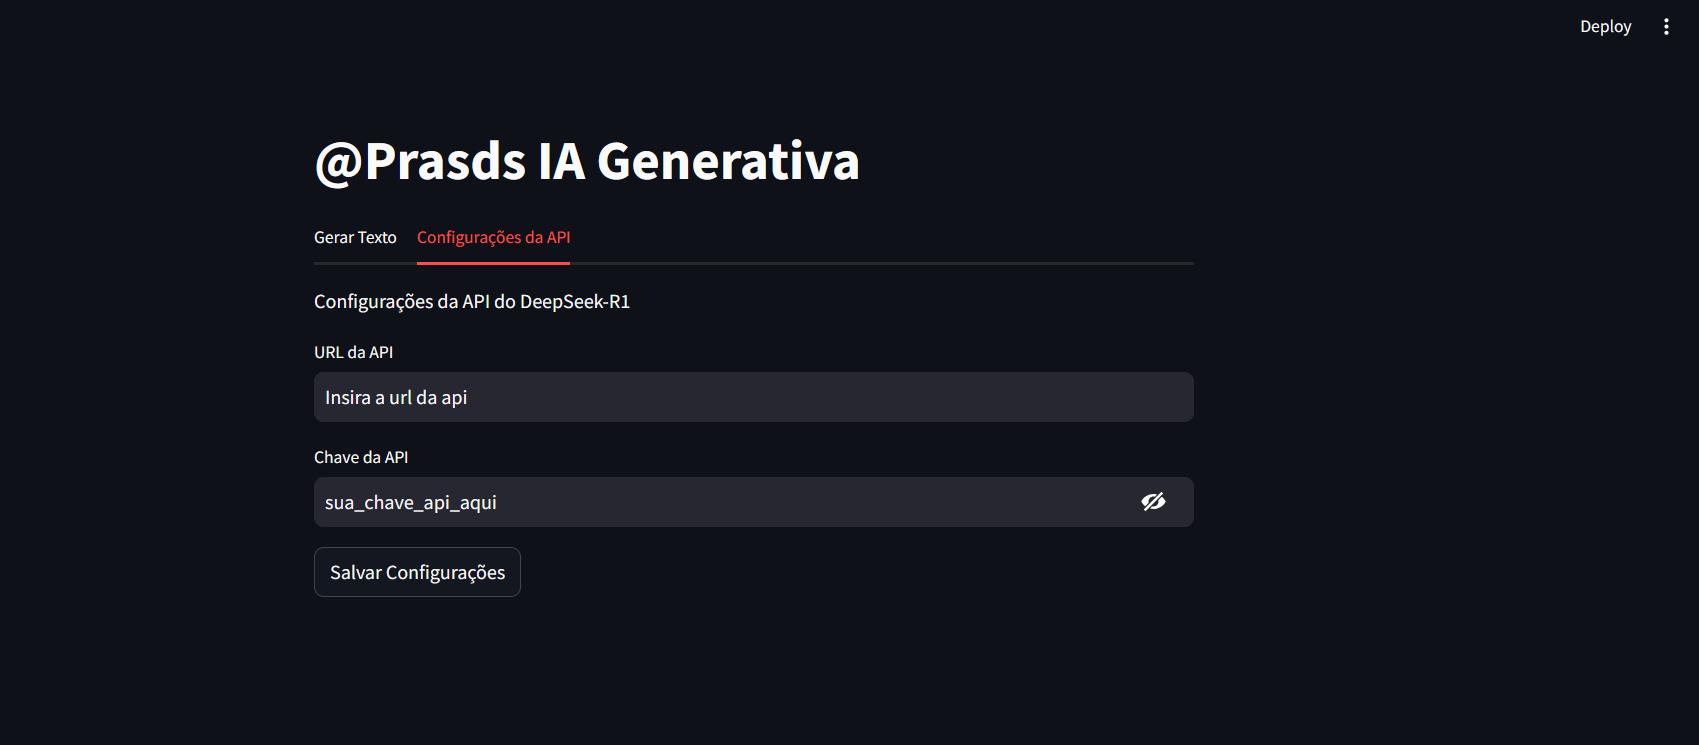
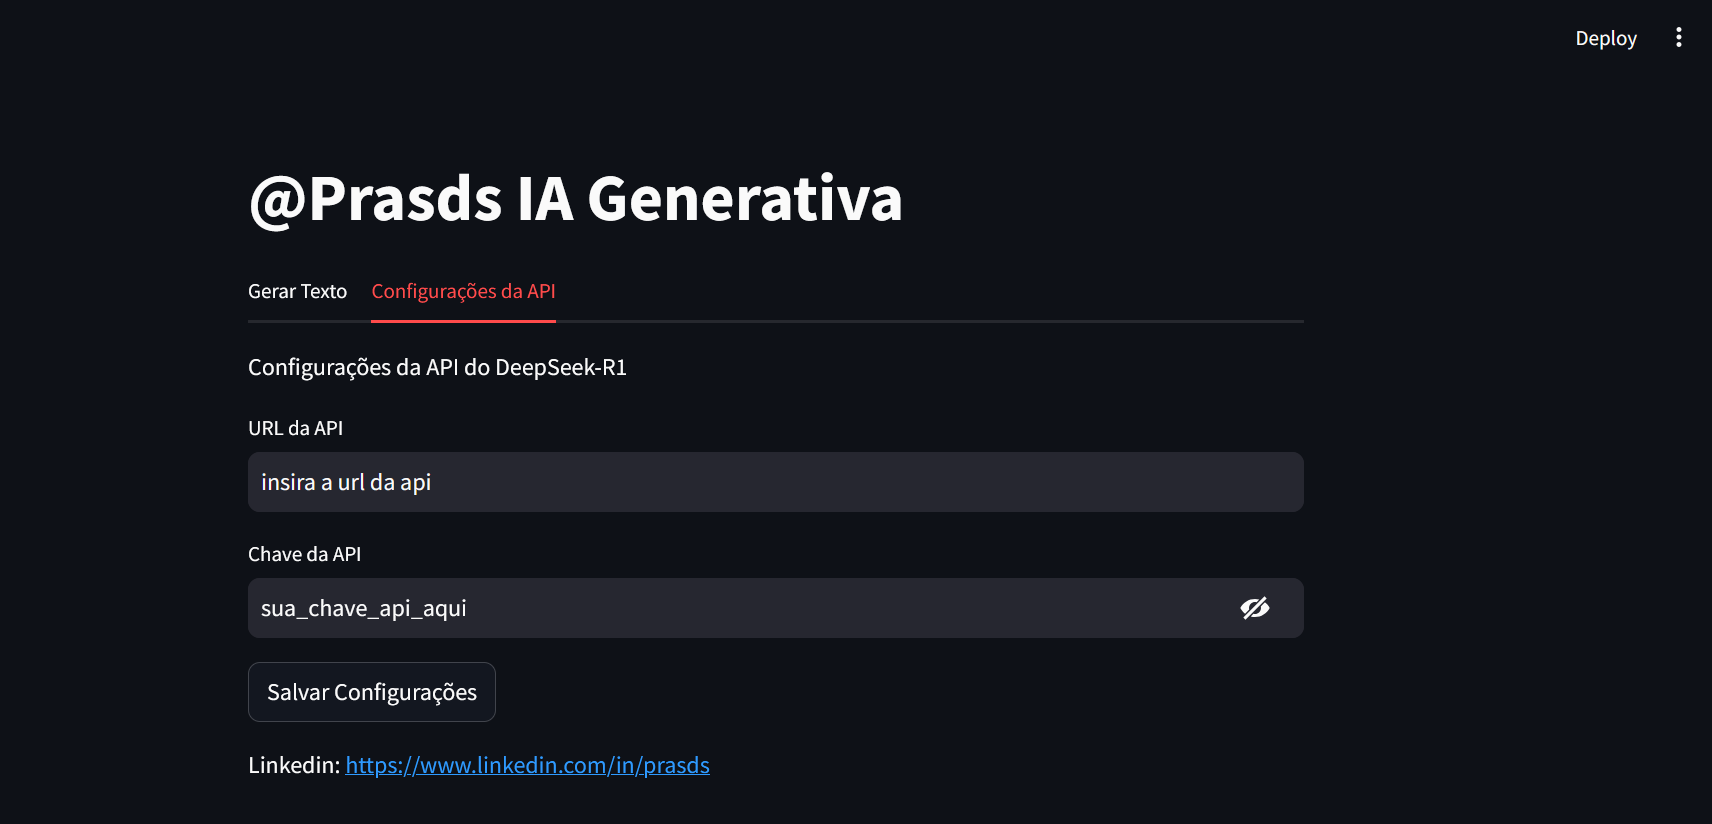
atualização de bibliotecas

diff --git a/app_deepseek.py b/app_deepseek.py
@@ -3,7 +3,6 @@ import requests
 
 # Interface do Streamlit
 st.title("@Prasds IA Generativa")
-#st.markdown("https://www.linkedin.com/in/prasds/")
 
 # Abas para separar a geração de texto e as configurações da API
 tab1, tab2 = st.tabs(["Gerar Texto", "Configurações da API"])
@@ -41,6 +40,8 @@ with tab1:
             api_key = st.session_state.get("api_key", "sua_chave_api_aqui")
             generated_text = generate_text(user_prompt, api_url, api_key)
             st.write(generated_text)
+
+st.markdown("Linkedin:  https://www.linkedin.com/in/prasds")
 
 # Aba 2: Configurações da API
 with tab2:

diff --git a/readme.md b/readme.md
@@ -75,3 +75,14 @@ pip install -r requirements.txt
 ```bash
 streamlit run app_deepseek.py
 ```
+
+## Contato:
+Linkedin: 
+``` 
+ https://www.linkedin.com/in/prasds
+ ```
+
+blog: 
+``` 
+https://prasds.blogspot.com/ 
+```
